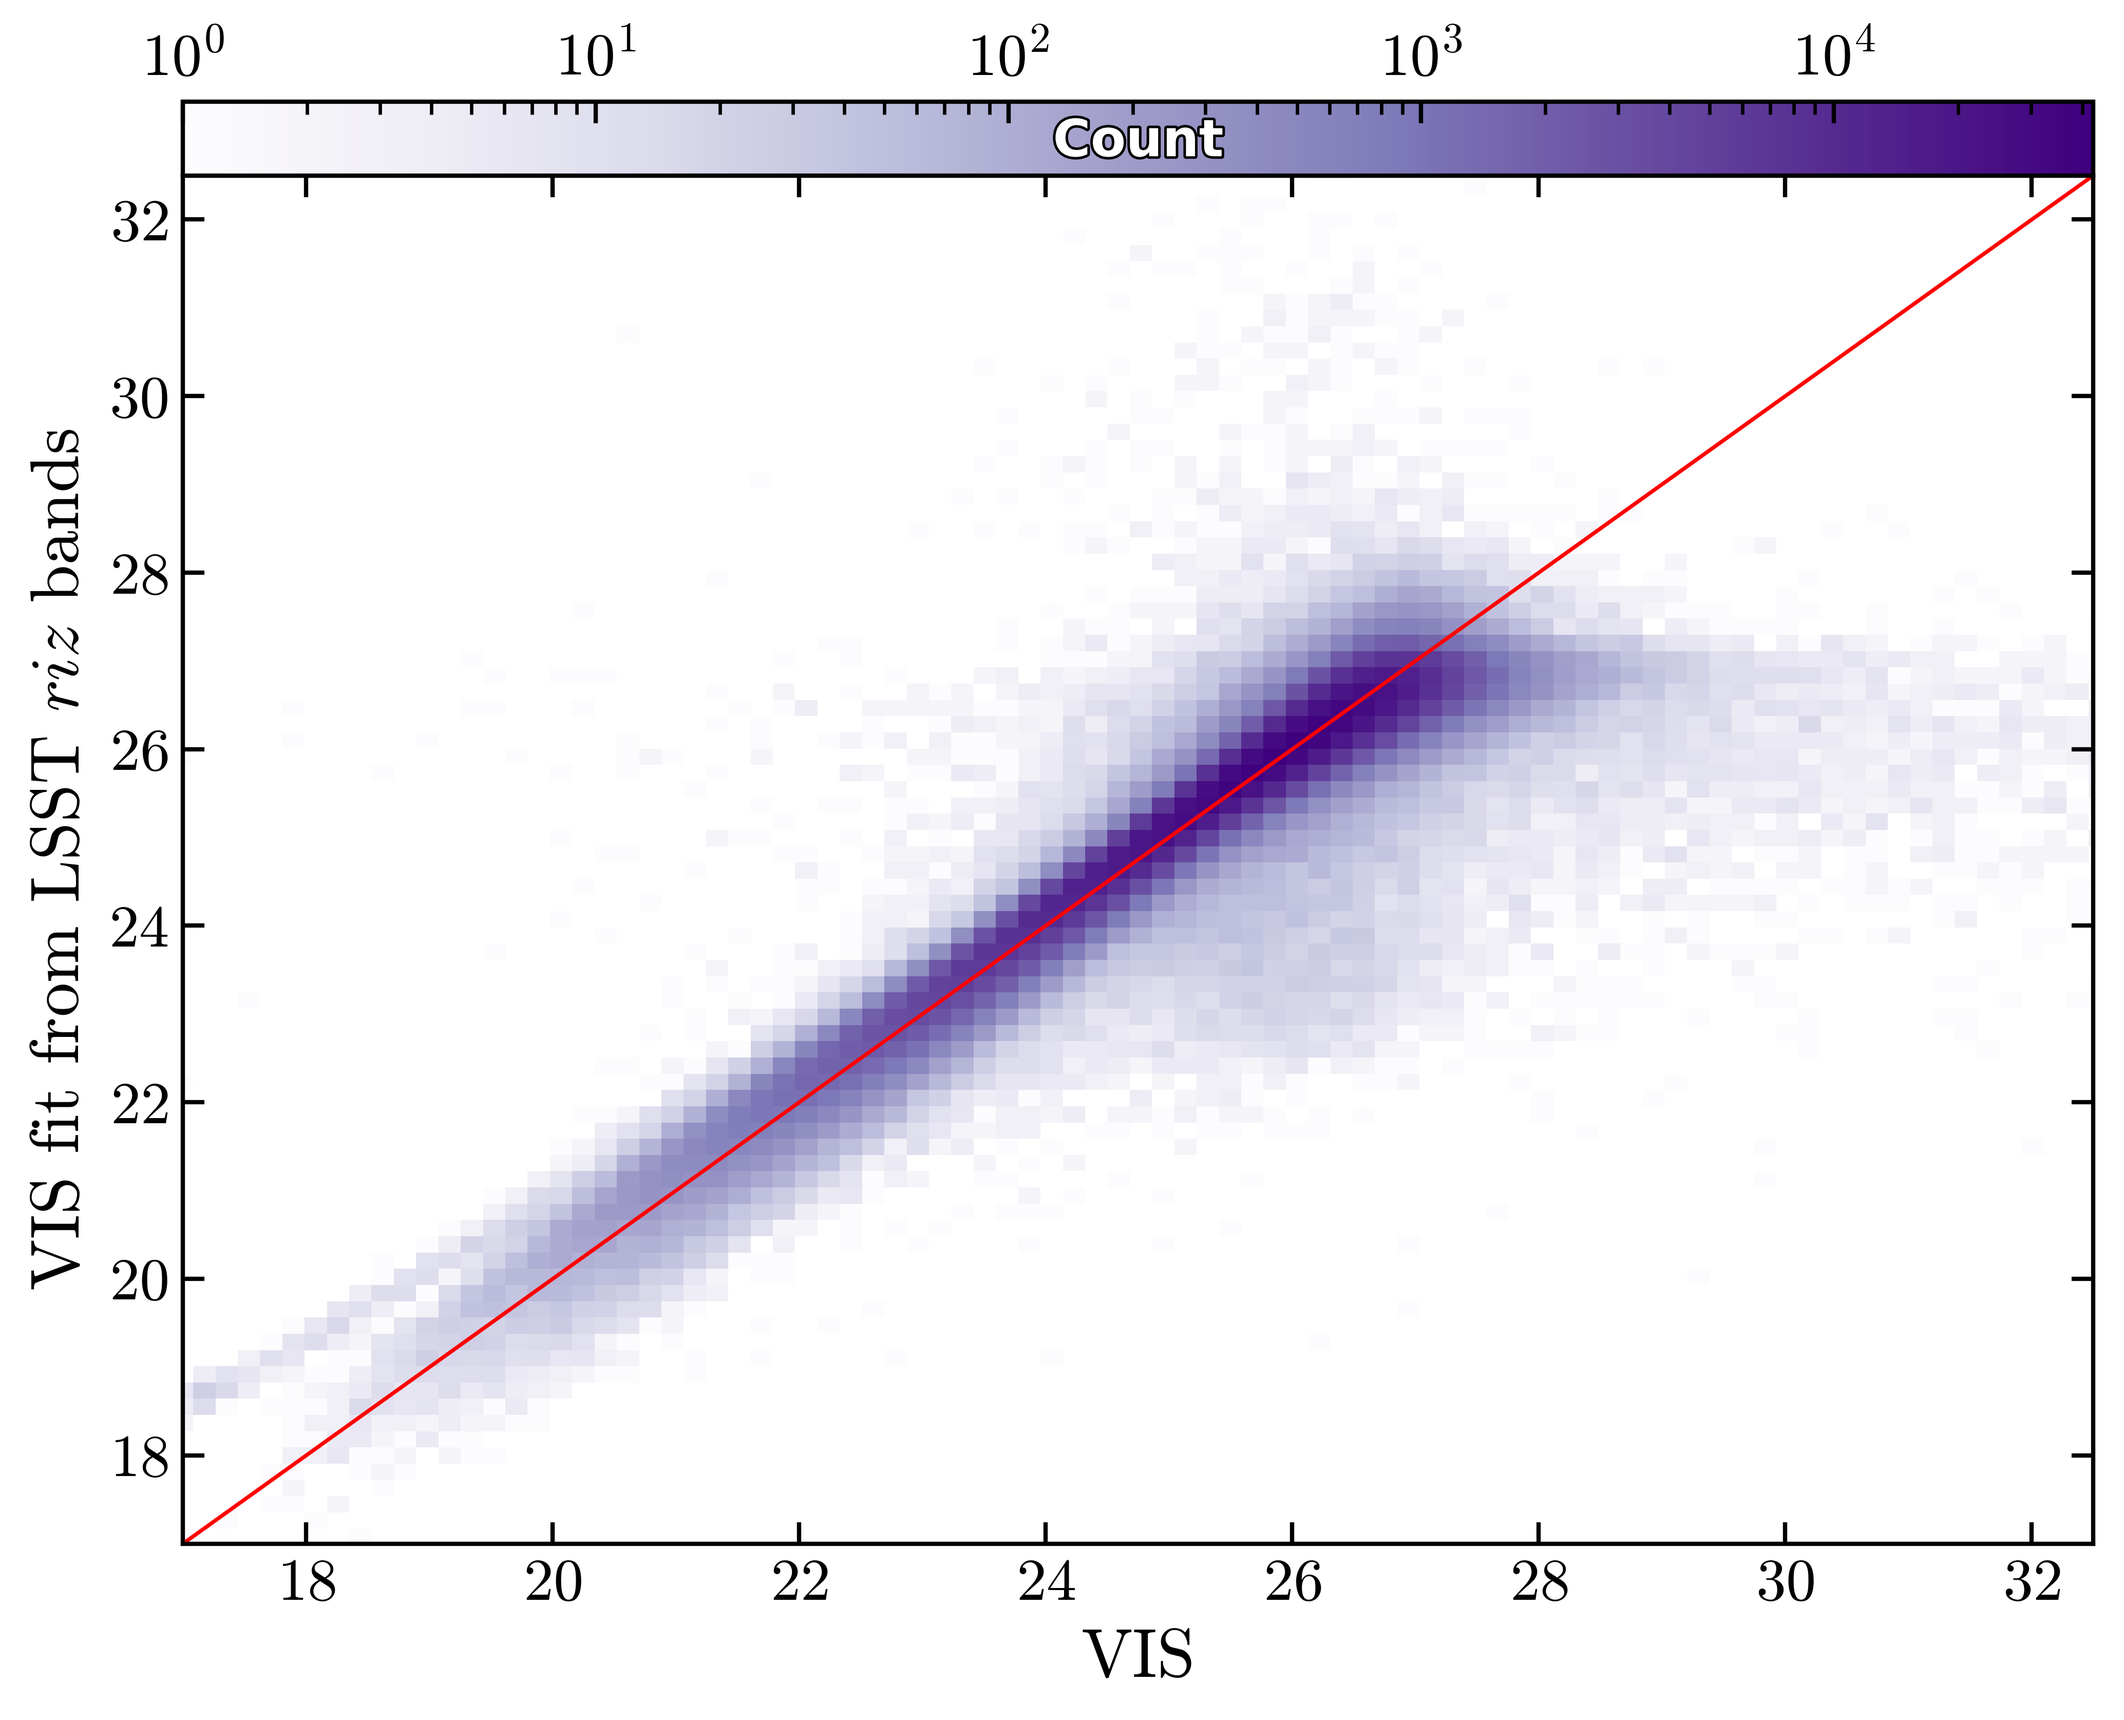
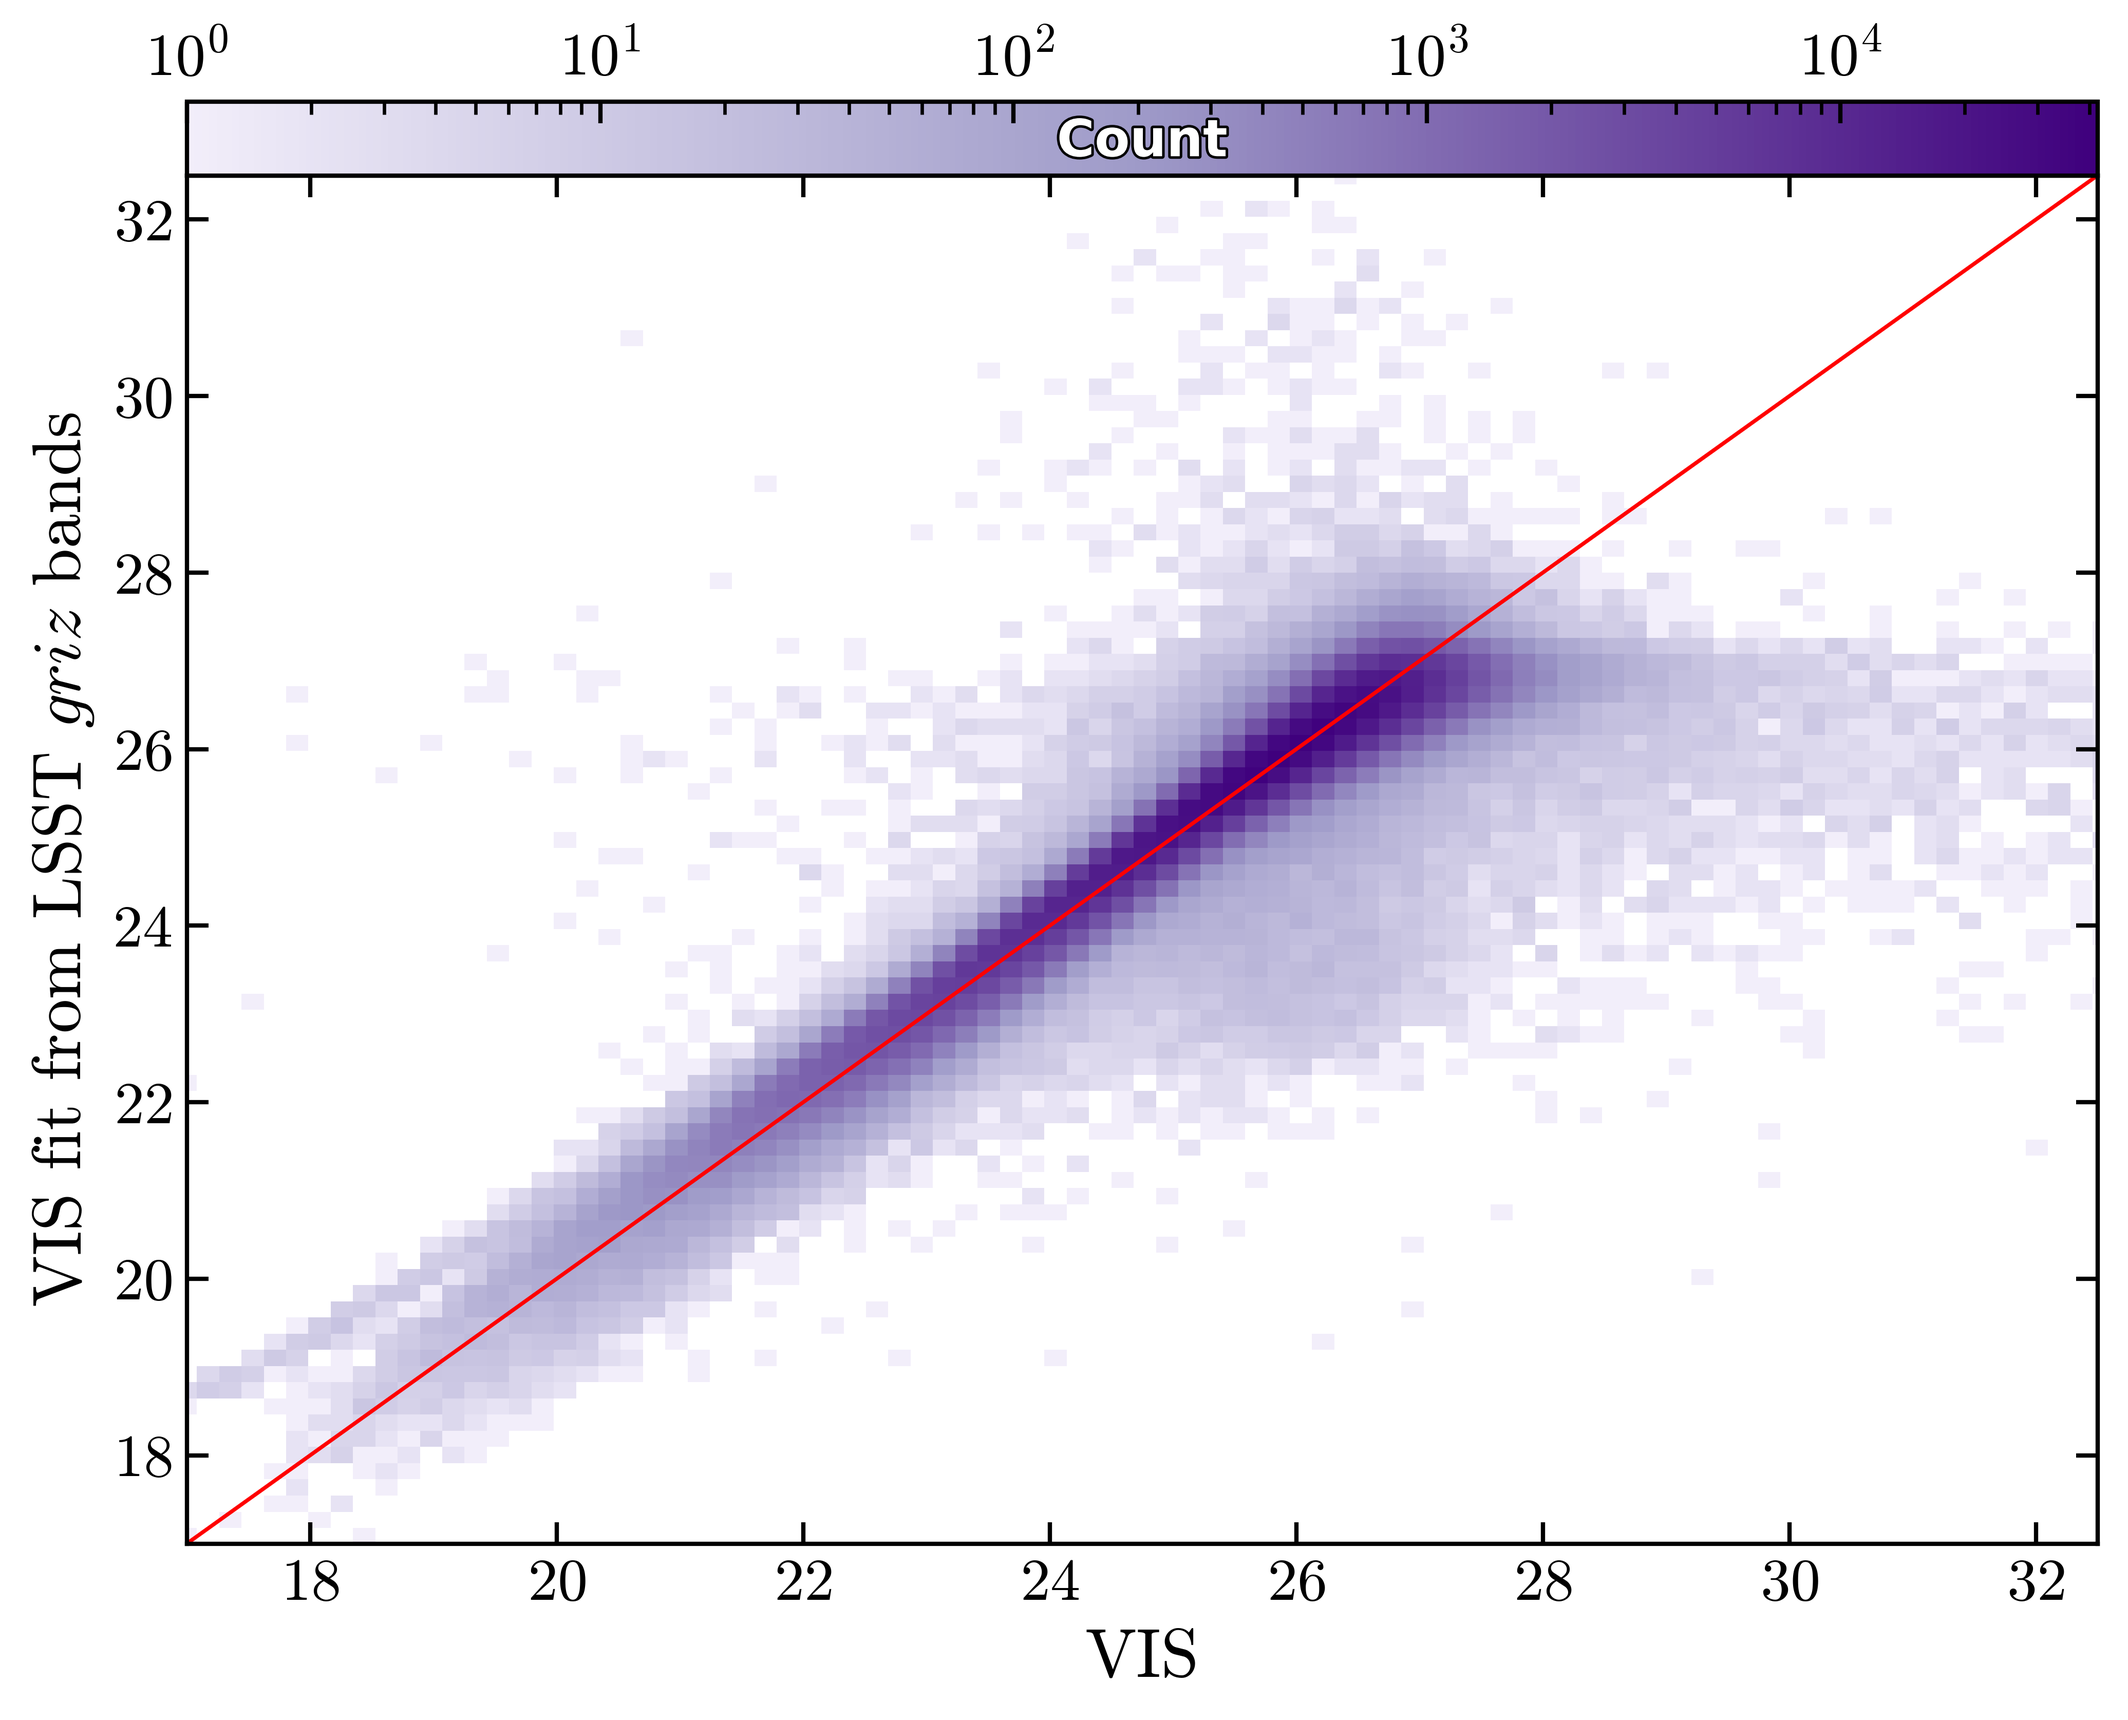
Fixed vis fit to take into account the z band

diff --git a/index.md b/index.md
@@ -1,5 +1,7 @@
 # Unrecognized blends in LSST DP1 and DP2 from the comparison with Euclid and HST
 
+See the [Documenteer documentation](https://documenteer.lsst.io/technotes/index.html) for tips on how to write and configure your new technote.
+
 ```{abstract}
 Unrecognized blends, where the number of detected objects is smaller than the number of true sources, are a known issue in LSST data and a significant source of photometric error. In this technote, we present our methodology for identifying unrecognized blends in the LSST Data Preview 1 and Data Preview 2 (hereafter DP1 and DP2, respectively) datasets by comparing them with high-resolution space-based observations from the Euclid Q1 and Hubble Space Telescope (HST) in the Extended Chandra Deep Field South (ECDFS). By matching sources detected in the LSST data with those from the space telescopes, we quantify the fraction of sources that are blended in LSST but resolved in the space-based data. We find that up to 22% of sources in both DP1 and DP2 are unrecognized blends when compared to Euclid Q1 data at 23 < i-band magnitude < 24. When compared to HST data, the fraction of unrecognized blends reaches up to 40% for the same magnitude range. We finally use the blending entropy to quantify, for each of those unrecognized blends in the LSST data, how ambiguous its galaxy association is.
 ```
@@ -11,6 +13,7 @@ Unrecognized blends, where the number of detected objects is smaller than the nu
 The LSST DP datasets both have a pixel scale of 0.2 arcsec/pixel while the Euclid Q1 data has a pixel scale of 0.1 arcsec/pixel and HST has a pixel scale of 0.05 arcsec/pixel. -->
 
 
+Blending, where multiple sources overlap in the sky, is expected to be a significant source of measurement uncertainties in the Stage-IV surveys like LSST {cite}`Melchior21`. A way to study blending is to compare data from different telescopes with different resolutions and depths.
 
 The Extended Chandra Deep Field South (ECDFS) is a deep-sky survey field that has been observed by many telescopes at different wavelengths due to its low galactic obscuration {cite}`Lehmer05`. In this note we use imaging of the ECDFS from three facilities.
 
@@ -23,7 +26,7 @@ skymap = 'lsst_cells_v2'
 butler_cat = 'object'
 ```
 - **Euclid Q1:** The Euclid Quick Data Release 1 (Q1) {cite}`EuclidQ1` is an early release of Euclid imaging and spectroscopy over ~63 deg² in the three Euclid Deep Fields, one of which is the ECDFS. We use the VIS optical imaging which has a pixel scale of 0.1 arcsec/pixel.  We use the final MER (MERge) catalog from Euclid Q1, which merges the VIS and NISP space-based imaging with external ground-based data to produce the combined multi-band source catalog.
-- **HST:** The Hubble Space Telescope {cite}`HSTref` has also imaged the ECDFS, we use these data as high-resolution imaging with a pixel scale of 0.06 arcsec/pixel. We use the Hubble Legacy Fields (HLF) GOODS-South source catalog, which is a high-level science product derived from archival HST imaging.
+- **HST:** The Hubble Space Telescope has also imaged the ECDFS {cite}`HSTref`, we use these data as high-resolution imaging with a pixel scale of 0.06 arcsec/pixel. We use the Hubble Legacy Fields (HLF) GOODS-South source catalog, which is a high-level science product derived from archival HST imaging.
 
 
 <!-- `LSSTCam/runs/DRP/DP2/v30_0_8/DM-55060/stage3` -->
@@ -38,12 +41,6 @@ butler_cat = 'object'
 Top: One tenth of the detected galaxies in the ECDFS observed by LSST. The blue region corresponds to our region of study we chose this region to not have the single visits effects (lower magnitude detections and artifacts). The grey region is discarded due to the presence of single visits. The circle discrimnating the two regions has a radius on the sky of  2.1 degrees and centered around the coordinates RA=53.05, Dec=-28.15 degrees.
 Bottom: One tenth of the detected galaxies in the ECDFS observed by LSST, Euclid and HST.
 ```
-
-<!-- | | LSST DP2 | Euclid | HST |
-| --- | --- | --- | --- |
-| Number of total sources | 3,610,708 | 5,328,489 | 165,776 |
-| LSST DP2 data inside footprint | n/a | 2,416,305 | 33,240 |
-| Area $\left\lbrack\mathrm{deg}^2\right\rbrack$ | 43.35 | 15.53 | 0.18 | -->
 
 The Euclid ECDFS footprint has an area of ~15.53 deg$^2$ and contains a total of 5,328,489 galaxies detected in the VIS band and, in that same footprint, there are 2,416,305 objects detected in the LSST DP2 dataset.\
 The HST ECDFS footprint has of area 0.18 deg$^2$ and contains a total of 165,776 galaxies detected in the F814W band and, in that same footprint, there are 33,240 objects detected in the LSST DP2 dataset.
@@ -60,13 +57,12 @@ We match the sources detected in the LSST DP datasets with those from Euclid and
 2. Ellipse Overlap Test (EOT): For each element (object/galaxy) in each group, we check if the ellipses (computed from the semi-major and semi-minor axes and the position angle of the detection) of the elements overlap with the ellipses of the other elements. If they do, we consider them as matched and keep them as a group. If there is no overlap, we split the group into two subgroups and repeat the process until all elements in each group have overlapping ellipses.
 
 Adding the EOT step after the FoF matching makes our matching independant from the linking length choice. The result of this matching is a set of groups where each groups contains one or more objects and one or more galaxies. If multiple elements are in the group, then they are overlapping, at least transitively.
-<!-- <span style="color: red;"> each other transitively (badly worded?)</span>. -->
 After making this matching, we can compute the number of objects and galaxies per group, as shown in {numref}`fig-nm-groups`.
 
 ```{figure} ./assets/plots/detect_counts_cbar_on_bottom_vertical.png
 :name: fig-nm-groups
 :alt: N-M groups
-:width: 80%
+:width: 90%
 
 Result of the cross-matching of catalogs LSST-Euclid and LSST-HST using FoF+EOT matching method. Each bin in the 2D histogram represents a group for a given number of objects, meaning LSST detections in columns and galaxies, meaning Euclid detections (top) or HST detections (bottom) in rows. The colorbar indicates the number count of groups in each bin.
 ```
@@ -83,45 +79,53 @@ S_\text{b} = -\sum_{\text{g}\in\text{gal}} p_\text{og} \ln(p_\text{og}) \ge 0 \q
 
 $p_\text{og}$ is the matching probability of object `o` with a galaxy `g`. It is the intersection-over-union of the two ellipses: the area they share divided by the area they cover together from 0 (disjoint) to 1 (identical). It is also normalized per object so that $\sum_{\text{g}\in\text{gal}}p_\text{og} = 1$. Systems with one object and one galaxy have a matching probability of 1 and a blending entropy of 0. The blending entropy ranges from 0, meaning no ambiguity, to log(N), meaning maximum ambiguity with N being the number of galaxies in the group.
 
-```{figure} ./assets/low_blending_entropy.png
-:alt: Low Sb
-
-Low $S_\text{b}$ blend.
-```
-
-```{figure} ./assets/low_blending_entropy.png
+```{figure} ./assets/high_blending_entropy.png
+:name: fig-high-sb-image
 :alt: High Sb
 
-High $S_\text{b}$ blend.
+Example of a high $S_\text{b}$ blend. Top: LSST cutout with $i,r,g$ bands corresponding to red, green and blue respectively. Bottom: Euclid VIS. The object from the LSST detection is represented by the blue ellipse and the galaxies from the Euclid detections by the orange ellipses.
 ```
 
-<!-- **those are dp1 image, make dp2 images** -->
+{numref}`fig-high-sb-image` shows an example of a high blending entropy system with one object and two galaxies. The object overlaps with both galaxies and has a similar magnitude to both of them, making it ambiguous to which galaxy it is associated.
+The blending entropy for this system is $S_b = 0.69$.
 
-However, the blending entropy needs to computed for the same wavelength band. Since the LSST DP datasets have been obserbed in the $u g r i z y$ bands, we compute the blending entropy using the relevant amount of bands that are the closest to the Euclid VIS band and the HST F814W band and making a fit to be able to compare them. We chose to construct a fit on the following bands $r i z$ and VIS for the LSST-Euclid comparison and $i$ and F814W for the LSST-HST comparison. The fit will be computed using solely the 1-1 systems since their photometry is cleaner than multiple-to-one systems and then applied to every object in the LSST DP datasets.
+```{figure} ./assets/low_blending_entropy.png
+:name: fig-low-sb-image
+:alt: Low Sb
+
+Example of a low $S_\text{b}$ blend.Top: LSST cutout with $i,r,g$ bands corresponding to red, green and blue respectively. Bottom: Euclid VIS. The object from the LSST detection is represented by the blue ellipse and the galaxies from the Euclid detections by the orange ellipses.
+```
+
+Conversely, {numref}`fig-low-sb-image` shows an example of a low blending entropy system with one object and two galaxies. One of the Euclid detections overlaps almost entirely with the LSST detection, while the other is only partially overlapping and has a lower magnitude. The LSST detection is well associated with the first Euclid detection making it unambiguous to which galaxy it is associated.
+The blending entropy for this system is $S_b = 0.09$.
+
+**those are dp1 image, make dp2 images and vertical**
+
+The blending entropy needs to computed for the same wavelength band. Since the LSST DP datasets have been obserbed in the $u g r i z y$ bands, we compute the blending entropy using the relevant amount of bands that are the closest to the Euclid VIS band and the HST F814W band and making a fit to be able to compare them. We chose to construct a fit on the following bands $gri$ and VIS for the LSST-Euclid comparison and $i$ and F814W for the LSST-HST comparison. The fit will be computed using solely the 1-1 systems since their photometry is cleaner than multiple-to-one systems and then applied to every object in the LSST DP datasets.
 
 For Euclid, we use the following fit on the colors defined as:
 
 $$
-\mathrm{VIS}_{\mathrm{fit}} = r_{\mathrm{term}} + c_{g-r} \cdot (g - r) + c_{r-i} \cdot (r - i)
+\mathrm{VIS}_{\mathrm{fit}} = r_{\mathrm{term}} + c_{g-r} \cdot (g - r) + c_{r-i} \cdot (r - i) + c_{i-z} \cdot (i - z)
 $$
 
 We decided to define $r_{\mathrm{term}}$ as a piecewise linear function of $r$:
 
-- If $ r \leq 22 $\,:
+- If $ r \leq 22 $:
   $r_{\mathrm{term}} = a_0^{\mathrm{low}} + c_r^{\mathrm{low}} \cdot r$
 
 - If $ r > 22 $: $\,r_{\mathrm{term}} = a_0^{\mathrm{high}} + c_r^{\mathrm{high}} \cdot r$
   where we define $a_0^{\mathrm{high}} = a_0^{\mathrm{low}} + (c_r^{\mathrm{low}} - c_r^{\mathrm{high}}) \cdot 22$ to ensure continuity at $r = 22$.
 
+The fitted coefficients are:
 
-From the output, the fitted coefficients are:
-
-- $ a_0^{\text{low}} = 5.63488985 $
-- $ a_0^{\text{high}} = 3.943983072 $
-- $c_r^{\mathrm{low}} = 0.816332713$
-- $c_r^{\mathrm{high}} = 0.893192112$
-- $c_{g-r} = 0.00524349462$
-- $c_{r-i} = -0.874038224$
+- $ a_0^{\text{low}} = 5.66629780 $
+- $ a_0^{\text{high}} = 3.97249087 $
+- $c_r^{\mathrm{low}} = 0.814976209$
+- $c_r^{\mathrm{high}} = 0.891967433$
+- $c_{g-r} = 0.00516430123$
+- $c_{r-i} = -0.873242388$
+- $c_{i-z} = -0.00569483576$
 
 ```{figure} ./assets/plots/visfit_vs_vis.png
 :name: fig-visfit
@@ -134,7 +138,7 @@ Verification of the VIS fit. The x-axis is the measured VIS magnitude from Eucli
 For HST, we use the following fit on the $i$-band defined as:
 $\mathrm{F814W}_{\mathrm{pred}} = c_0 + c_{i} \cdot i$
 
-From the output, the fitted coefficients are:
+The fitted coefficients are:
 - $ c_0 = -1.249 $
 - $ c_i = 1.005 $
 
@@ -165,7 +169,7 @@ Top: Distribution of detection magnitudes for LSST (blue), Euclid (orange) and H
 
 
 ```{figure} ./assets/plots/dp2_high_sb_unrec.png
-:name: fig-high-sb
+:name: fig-high-sb-unrec
 :alt: Fraction of high Sb blends as a function of i-band magnitude
 :width: 100%
 
@@ -178,4 +182,4 @@ Fraction of high $S_b$ blends as a function of the i-band magnitude of LSST. The
 ```{bibliography}
 ```
 
-See the [Documenteer documentation](https://documenteer.lsst.io/technotes/index.html) for tips on how to write and configure your new technote.
+
